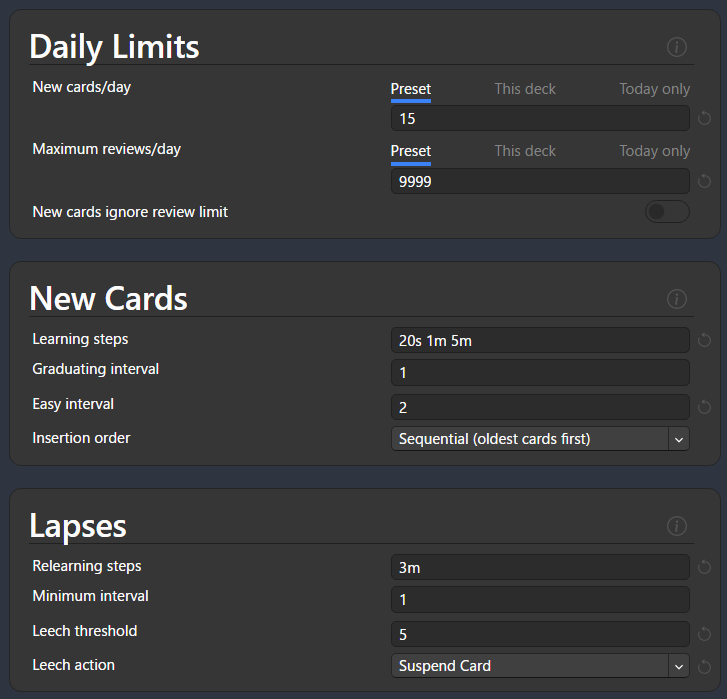
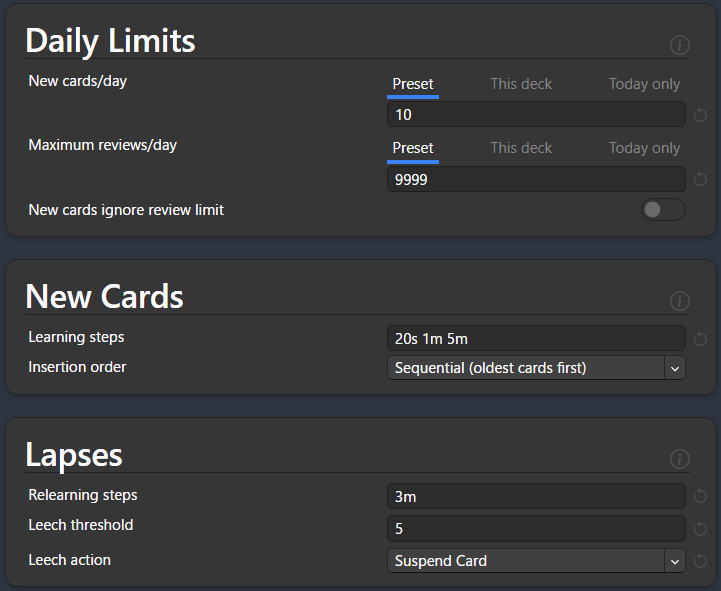
$updated info

diff --git a/docs/jp-lazy-guide/setupAnki.md b/docs/jp-lazy-guide/setupAnki.md
@@ -254,18 +254,18 @@
 
 
 8. Go to your `Deck`'s option then copy the `settings` below
-    - `Tools` > `Preferences` and turn on `v3 scheduler`
-    - `Shift` + `Left Click` on the `option` cog settings of the `deck` for `Rewards` Tab(Settings 3), since it doesn't save on the modern UI
-        - Multiply the values you input by `100` for the old UI
+    - (Top left) `Tools` > `Preferences` and set the settings accordingly
+    - Turn on `FSRS` with a minimum desired and SM2 retention of `0.80`, then use `Optimize FSRS Parameters` every month
+        - `Tools` > `FSRS4Anki Helper` for more personalized settings
 
+    === "Anki Preference Settings"
+        ![Anki Preference Settings](../img/anki-preference-settings.png){height=300 width=600}
     === "Settings 1"
         ![Anki Settings 1](../img/anki-settings-1.png){height=300 width=600}
     === "Settings 2"
         ![Anki Settings 2](../img/anki-settings-2.png){height=300 width=600}
     === "Settings 3"
         ![Anki Settings 3](../img/anki-settings-3.png){height=300 width=600}
-    === "Anki Preference Settings"
-        ![v3 Scheduler](../img/v3-scheduler.png){height=300 width=600}
 
 9. Restart your `Anki` and it should be good to go
 

diff --git a/docs/jp-lazy-guide/changelog.md b/docs/jp-lazy-guide/changelog.md
@@ -17,6 +17,7 @@ hide:
 - Updated [Setup: Anki](https://xelieu.github.io/jp-lazy-guide/setupAnki/) because Aquafina is missing and we can't update using `JPMN Manager` anymore
 	- For existing users that installed before `2023-11-13`, go to: [Update: Anki JPMN Fork](https://xelieu.github.io/jp-lazy-guide/updateAnkiJPMNFork/)
 	- Archived [Setup: Anki (Old)](https://xelieu.github.io/jp-lazy-guide/setupAnkiOld/) in case we can re-use `JPMN Manager` in the future
+	- Set `FSRS` as default
 
 - Updated [Mokuro Setup (Local Processing Method)](https://xelieu.github.io/jp-lazy-guide/setupMangaOnPC/#local-processing-method)
 	- For existing users, simply paste this into cmd to update: `pip install git+https://github.com/ZXY101/mokuro.git@master`
